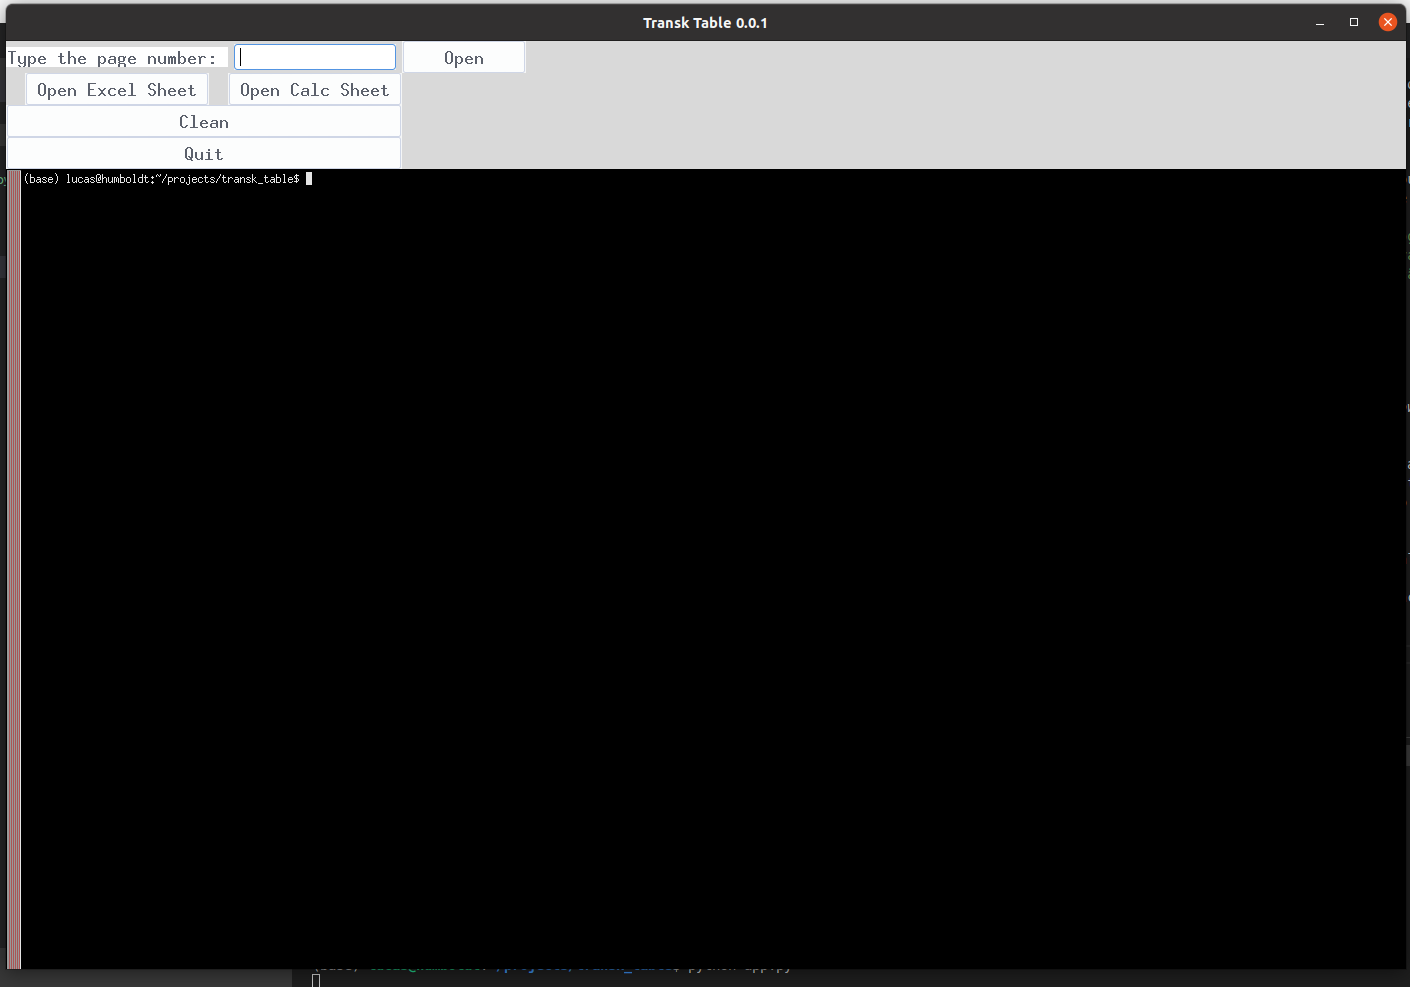
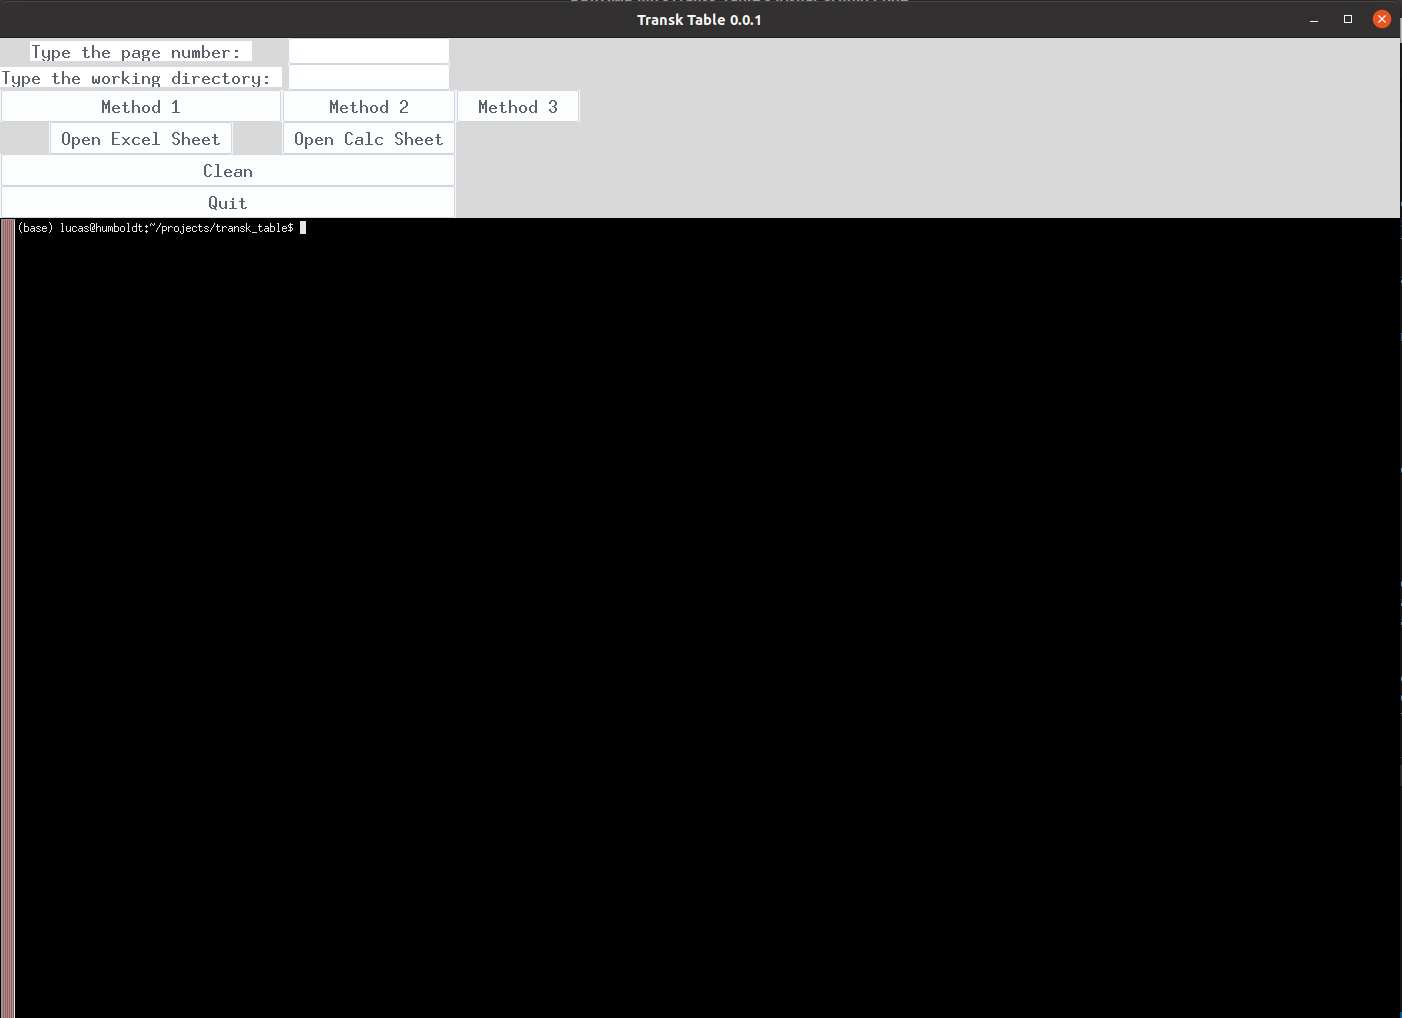
Update README

Changed region(s): [[0.0, 0.0, 1.0, 1.0]]

diff --git a/README.md b/README.md
@@ -31,18 +31,20 @@ Na atual versão, o **transk table** tem apenas uma janela dividida em dois _fra
 
 ![alt text](https://github.com/lucascr91/transk_table/blob/master/gui_tt.png)
 
-O **transk table** transcreve uma tabela por vez. Para iniciar a transcrição o usuário deve definir o número da página do documento onde está a tabela de interesse e clicar em *open* para abrir o documento. Após a seleção do documento, o **transk table** vai criar uma pasta no seu home directory cujo nome será dado pelo número da página. Dentro dessa pasta será salvo um arquivo em csv chamado "DDD_page.csv", onde DDD é o número da página. O arquivo "DDD_page.csv" é a transcrição bruta feita pelo tabular. Dessa forma, a simples definição da página e abertura documento encerra o passo 1.
+O **transk table** transcreve uma tabela por vez. Para iniciar a transcrição o usuário deve definir o número da página do documento onde está a tabela de interesse e clicar em um dos botões de **método** para abrir o documento. Todos os botões têm a mesma finalidade, mas usam procedimentos diferentes. Idealmente, o usuário deve tentar o método 1, se falhar, tenta-se o método 2. Diante de nova falha, tenta-se o método 3.
 
-Para a consecução do passo 2 o usuário precisa clicar em *Open Excel Sheet* (usuários de Windows) ou *Open Calc sheet* (usuários de Linux). O **transk table** abrirá então o "DDD_page.csv". Aberto esse arquivo, o usuário deve corrigir o número de linhas e colunas, salvar o arquivo e fechar. Após fechar o arquivo, o usuário deve clicar em *Clean*. Esse botão elimina todas as entradas diferentes de números, desconsiderando as informações da primeira coluna. 
+Após a seleção do método, o **transk table** vai criar uma pasta no seu home directory cujo nome será dado pela string inserida no campo working directory. Dentro dessa pasta será criada uma subpasta e salvo um arquivo dentro da subpasta cujo nome é o número da página. O arquivo em csv é chamado "DDD_page.csv", onde DDD é o número da página. O arquivo "DDD_page.csv" é a transcrição bruta feita pelo tabular. Dessa forma, a simples definição da página e abertura documento encerra o passo 1.
 
-Por fim, a última etapa consiste em digitar no terminal dentro da GUI o seguinte comando:
+Para a consecução do passo 2 o usuário precisa clicar em *Open Excel Sheet* (usuários de Windows) ou *Open Calc sheet* (usuários de Linux). O **transk table** abrirá então o "DDD_page.csv". Aberto esse arquivo, o usuário deve corrigir o número de linhas e colunas, salvar o arquivo e fechar. Após fechar o arquivo, o usuário deve clicar em *Clean*. Esse botão elimina todas as entradas diferentes de números, desconsiderando as informações da primeira coluna e do *header*. 
+
+Por fim, a última etapa (i.e., conferência) consiste em digitar no terminal dentro da GUI o seguinte comando:
 
 ```
-python corrections.py DDD
+python corrections.py DDD working directory
 ```
-Em que DDD é o número da página para a qual você quer fazer a conferência.
+Em que DDD é o número da página para a qual você quer fazer a conferência e working directory o nome da pasta que o usuário definiu no início
 
-Será então iniciado um "jogo" em que o computador irá lhe apresentar os valores de cada célula e você terá que responder se aquele valor é válido ou não. Se for válido apenas clique em enter. Se precisar substituir responda de acordo. O jogo é auto-explicativo e irá salvar automaticamente todas as alterações que você implementar durante as respostas em um arquivo chamado "DDD_page_final.csv" na respectiva pasta. A correção é feita por coluna. Quando terminar todas as colunas, simplesmente clique em *Quit*. A transcrição da tabela estará pronta.
+Será então iniciado um "jogo" em que o computador irá lhe apresentar os valores de cada célula e você terá que responder se aquele valor é válido ou não. Se for válido apenas clique enter. Se precisar substituir responda de acordo. O jogo é auto-explicativo e irá salvar automaticamente todas as alterações que você implementar durante as respostas em um arquivo chamado "DDD_page_final.csv" na respectiva pasta. A correção é feita por coluna. Quando terminar todas as colunas, simplesmente clique em *Quit*. A transcrição da tabela estará pronta.
 
 
 ### Como instalar e rodar o transk table no seu computador:
@@ -51,13 +53,7 @@ Será então iniciado um "jogo" em que o computador irá lhe apresentar os valor
 
 Para instalar e rodar o *transk table* no seu computador você irá precisar ter instalado o python 3, alguns pacotes dessa linguagem que serão detalhados mais adiante, além de acesso ao terminal. A forma mais conveniente de se instalar o python com os pacotes necessários para rodar o *transk table* é instalar o [Anaconda](https://www.anaconda.com/products/individual). A instalação é simples e pode ser feita após o download do instalador no site do _software_ .Para os usuários de Windows recomendo baixar alguma das versões anteriores do Anaconda (digamos, 3.5). Versões mais recentes do Anaconda têm apresentado incompatibilidades com o Windows.
 
-Depois de instalado o Anaconda, abra o terminal do seu computador e digite:
-
-```
-pip install tabula-py
-```
-
-Esse é o único pacote que não vem instalado no Anaconda. Caso você tenha instalado o python de outra forma certifique-se de que sua instalação possui os seguintes módulos: pandas, numpy, ttkthemes e tkinter.
+Depois de instalado o Anaconda, será preciso instalar mais alguns módulos extras. Veja o arquivo REQUIREMENTS.md para checar quais módulos são necessários e instale cada um deles.
 
 #### Iniciando o transk table
 
@@ -72,4 +68,4 @@ python app.py
 
 ### Melhorias futuras
 
-A versão atual do *transk table* é completamente funcional e você poderá fazer transcrições de tabelas em imagens de baixa resolução de forma organizada e semi-automática. No entanto, a atual versão têm o imenso inconveniente de não ter a imagem da  tabela que está sendo transcrita dentro de GUI. Essas e outras limitações serão corrigidas na segunda versão. Se você tem interesse em contribuir veja a pasta *second_version*. Esta pasta contém o código atual da segunda versão que está sendo desenvolvida, bem como um documento que lista possíveis melhorias a serem incorporadas.
+A versão atual do *transk table* é completamente funcional e você poderá fazer transcrições de tabelas em imagens de baixa resolução de forma organizada e semi-automática. No entanto, essa versão têm o imenso inconveniente de não ter a imagem da  tabela que está sendo transcrita dentro de GUI. Essas e outras limitações serão corrigidas na segunda versão. Se você tem interesse em contribuir veja a pasta *second_version*. Esta pasta contém o código atual da segunda versão que está sendo desenvolvida, bem como um documento que lista possíveis melhorias a serem incorporadas.

diff --git a/REQUIREMENTS.md b/REQUIREMENTS.md
@@ -1,0 +1,10 @@
+tkinter
+ttkthemes
+tabula
+pandas
+numpy
+os
+wand
+PIL
+pytesseract
+PyPDF2
